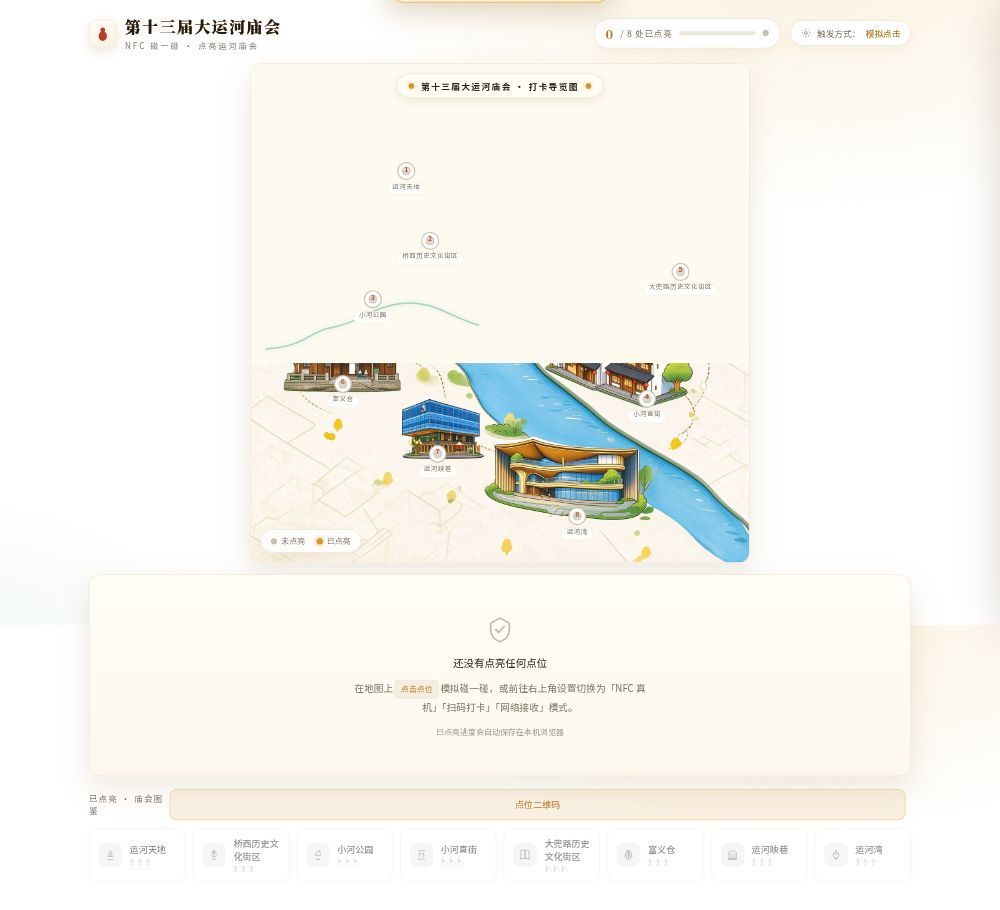
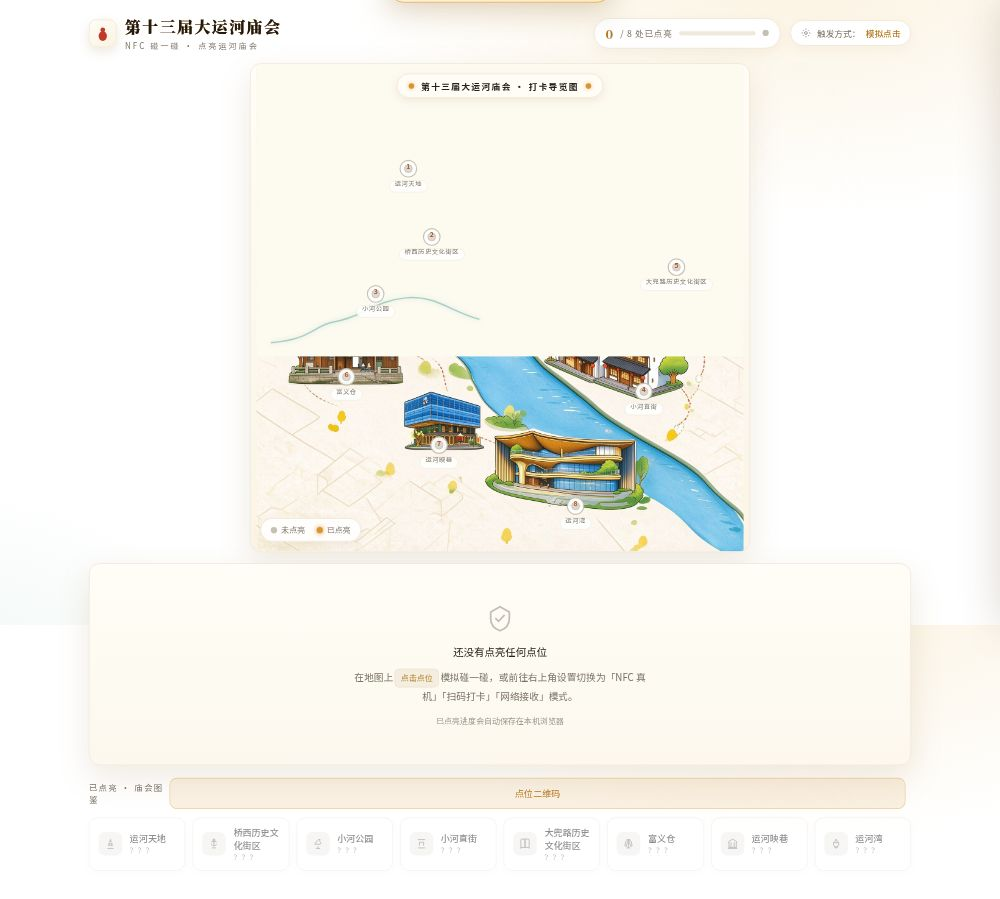
地图显示完整：底图改meet模式永不裁剪+限高78vh，任何屏幕完整显示8点位

diff --git a/index.html b/index.html
@@ -70,7 +70,7 @@ button{font-family:inherit;cursor:pointer;border:none;background:none;color:inhe
   radial-gradient(900px 420px at 50% -5%, #fffdf5 0%, rgba(255,253,245,0) 60%),
   linear-gradient(180deg,#fffdf6,#fbf4e6);
   border:1px solid var(--line);box-shadow:var(--shadow);width:100%;max-width:720px;margin:0 auto}
-.stage svg.svg-map{display:block;width:100%;height:auto}
+.stage svg.svg-map{display:block;width:auto;height:min(78vh,720px);max-width:100%;margin:0 auto}
 .legend{position:absolute;left:14px;bottom:14px;display:flex;gap:16px;font-size:11.5px;color:var(--paper-dim);background:rgba(255,255,255,.9);backdrop-filter:blur(6px);padding:8px 14px;border-radius:999px;border:1px solid var(--line);box-shadow:0 6px 16px rgba(150,115,60,.1)}
 .legend i{display:inline-block;width:9px;height:9px;border-radius:50%;margin-right:6px;vertical-align:-1px}
 .legend .li{display:flex;align-items:center}
@@ -3252,7 +3252,7 @@ function renderMapImage(src){
     img.setAttribute("id", "mapImg");
     img.setAttribute("width", 1000);
     img.setAttribute("height", 1000);
-    img.setAttribute("preserveAspectRatio", "xMidYMid slice");
+    img.setAttribute("preserveAspectRatio", "xMidYMid meet");
     document.querySelector("#mapSvg").insertBefore(img, document.querySelector("#mapSvg").firstChild);
   }
   img.setAttribute("href", src);
